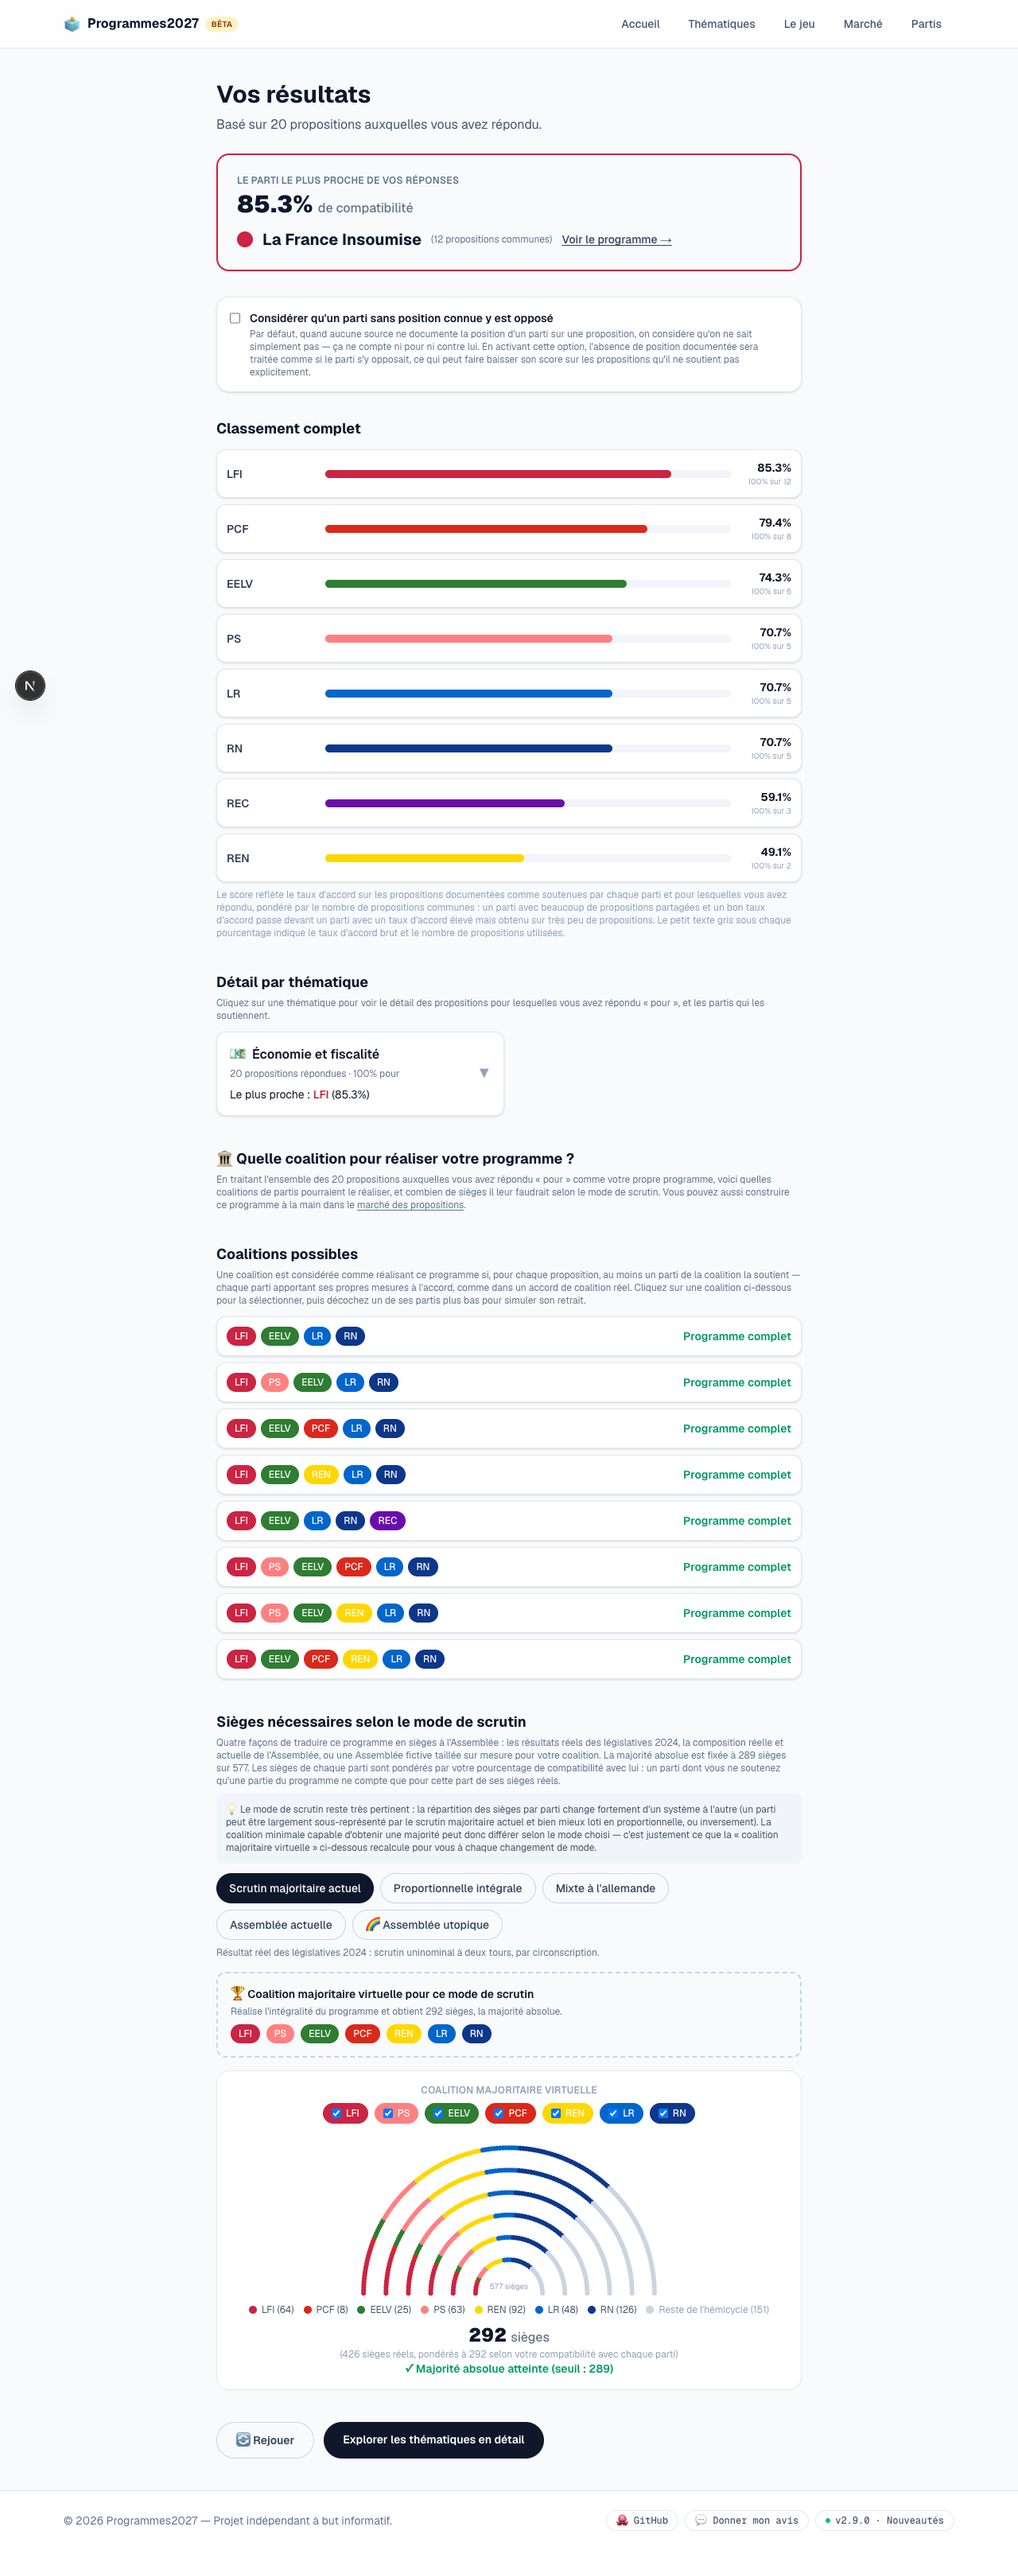
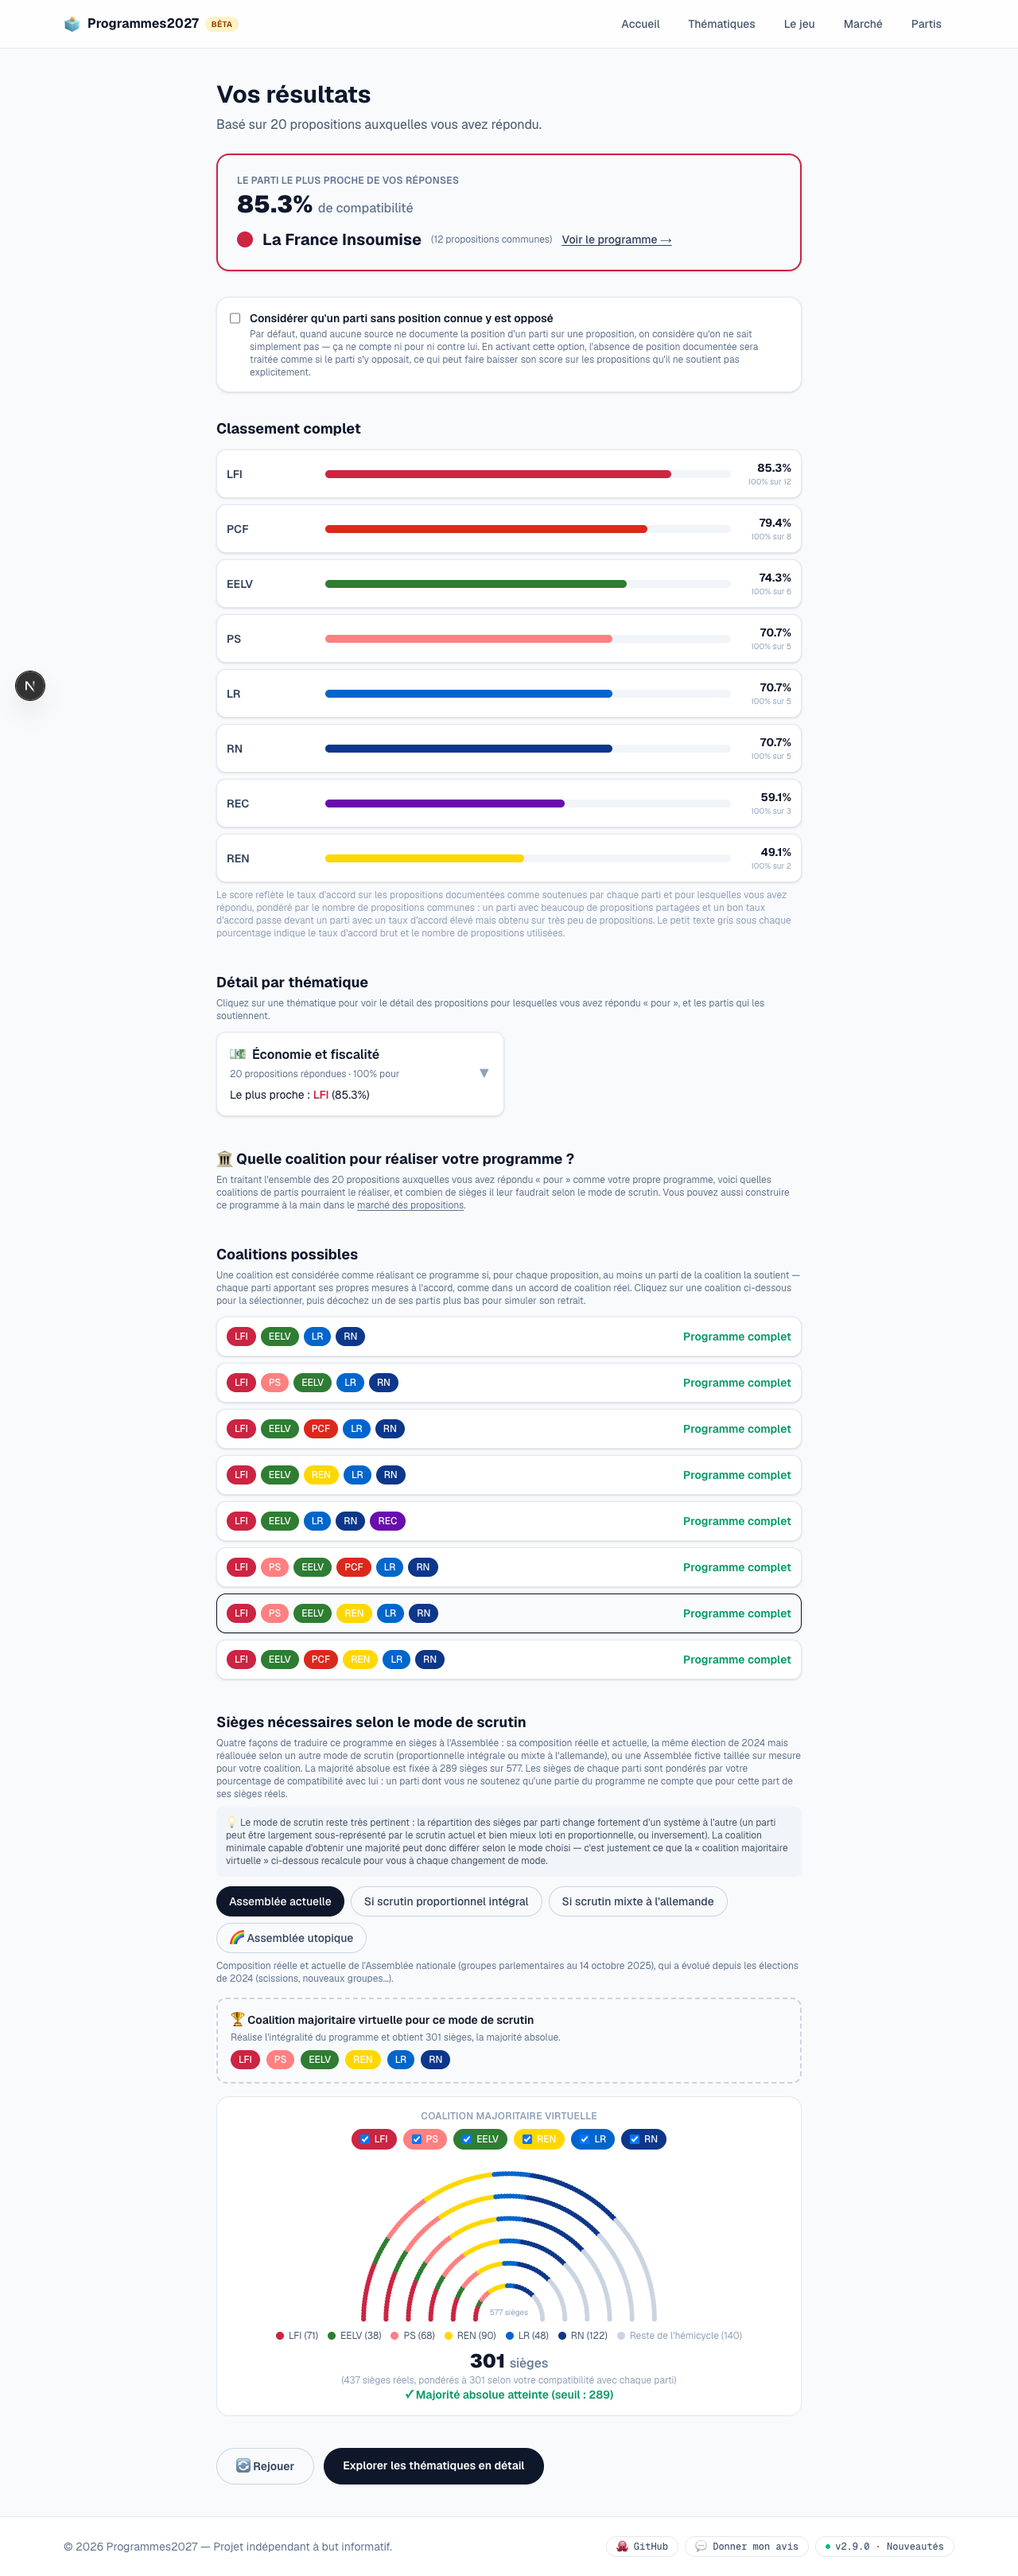
Simplify electoral system options: drop duplicate majoritaire mode, clarify labels

diff --git a/src/lib/electoralSystems.ts b/src/lib/electoralSystems.ts
@@ -2,7 +2,6 @@ import { PartyId, Proposition } from "@/lib/types";
 import {
   ELECTION_2024_BY_PARTY,
   MAJORITY_THRESHOLD,
-  OTHER_SEATS_2024,
   OTHER_VOTE_SHARE_2024,
   TOTAL_SEATS,
 } from "@/lib/data/electionResults2024";
@@ -13,10 +12,9 @@ import {
 } from "@/lib/data/currentAssembly";
 
 export type ElectoralSystemId =
-  | "majoritaire"
+  | "actuelle"
   | "proportionnelle"
   | "mixte"
-  | "actuelle"
   | "utopique";
 
 export interface ElectoralSystem {
@@ -27,27 +25,21 @@ export interface ElectoralSystem {
 
 export const ELECTORAL_SYSTEMS: ElectoralSystem[] = [
   {
-    id: "majoritaire",
-    name: "Scrutin majoritaire actuel",
-    shortDescription:
-      "Résultat réel des législatives 2024 : scrutin uninominal à deux tours, par circonscription.",
-  },
-  {
-    id: "proportionnelle",
-    name: "Proportionnelle intégrale",
-    shortDescription:
-      "Répartition nationale stricte des sièges au prorata des voix du 1er tour 2024 (méthode D'Hondt), seuil de 5% sans exception.",
-  },
-  {
-    id: "mixte",
-    name: "Mixte à l'allemande",
-    shortDescription:
-      "Moitié des sièges par circonscription, moitié en compensation proportionnelle nationale (méthode D'Hondt), seuil de 5% des voix OU 3 mandats directs (règle réellement utilisée en Allemagne).",
-  },
-  {
     id: "actuelle",
     name: "Assemblée actuelle",
     shortDescription: `Composition réelle et actuelle de l'Assemblée nationale (groupes parlementaires au ${CURRENT_ASSEMBLY_DATE}), qui a évolué depuis les élections de 2024 (scissions, nouveaux groupes...).`,
+  },
+  {
+    id: "proportionnelle",
+    name: "Si scrutin proportionnel intégral",
+    shortDescription:
+      "Mêmes résultats électoraux (1er tour des législatives 2024), mais sièges réattribués en proportionnelle intégrale nationale (méthode D'Hondt), seuil de 5% sans exception, au lieu du scrutin uninominal réellement utilisé.",
+  },
+  {
+    id: "mixte",
+    name: "Si scrutin mixte à l'allemande",
+    shortDescription:
+      "Mêmes résultats électoraux (2024), mais moitié des sièges par circonscription et moitié en compensation proportionnelle nationale (méthode D'Hondt), seuil de 5% des voix OU 3 mandats directs (règle réellement utilisée en Allemagne).",
   },
   {
     id: "utopique",
@@ -96,15 +88,6 @@ function allocateDHondt(
 
 function partyIds(): PartyId[] {
   return Object.keys(ELECTION_2024_BY_PARTY) as PartyId[];
-}
-
-/** The real, historical 2024 seat distribution — used as-is. */
-export function computeMajoritaireSeats(): SeatSimulationResult {
-  const seatsByParty: SeatsByParty = {};
-  for (const id of partyIds()) {
-    seatsByParty[id] = ELECTION_2024_BY_PARTY[id].seats2024;
-  }
-  return { seatsByParty, otherSeats: OTHER_SEATS_2024 };
 }
 
 /** Strict 5% national threshold, no exceptions. */
@@ -162,10 +145,13 @@ export function computeMixteSeats(): SeatSimulationResult {
 }
 
 /**
- * The current, present-day balance of power in the Assemblée nationale
- * — distinct from `computeMajoritaireSeats`, which reflects the 2024
- * election results as they stood on election night. See
- * `src/lib/data/currentAssembly.ts` for sourcing and the snapshot date.
+ * The current, present-day balance of power in the Assemblée nationale.
+ * See `src/lib/data/currentAssembly.ts` for sourcing and the snapshot
+ * date — this is the "real" baseline for the coalition simulator; the
+ * "proportionnelle"/"mixte" systems below simulate what the SAME 2024
+ * election result would have produced under a different voting system,
+ * not what today's Assembly would look like reallocated (we have no
+ * newer national vote-share data to do that with).
  */
 export function computeActuelleSeats(): SeatSimulationResult {
   return {
@@ -176,8 +162,6 @@ export function computeActuelleSeats(): SeatSimulationResult {
 
 export function computeSeats(system: ElectoralSystemId): SeatSimulationResult {
   switch (system) {
-    case "majoritaire":
-      return computeMajoritaireSeats();
     case "proportionnelle":
       return computeProportionnelleSeats();
     case "mixte":

diff --git a/src/components/CoalitionExplorer.tsx b/src/components/CoalitionExplorer.tsx
@@ -50,7 +50,7 @@ export function CoalitionExplorer({
   const [manualCoalitionIndex, setManualCoalitionIndex] = useState<number | null>(
     null
   );
-  const [system, setSystem] = useState<ElectoralSystemId>("majoritaire");
+  const [system, setSystem] = useState<ElectoralSystemId>("actuelle");
   // Parties temporarily excluded from the currently selected coalition,
   // to preview which propositions could no longer be realized without
   // them. Reset whenever the selected coalition changes (picking a
@@ -159,11 +159,12 @@ export function CoalitionExplorer({
           </h2>
           <p className="mt-1 text-xs text-slate-500">
             Quatre façons de traduire ce programme en sièges à
-            l&apos;Assemblée : les résultats réels des législatives 2024,
-            la composition réelle et actuelle de l&apos;Assemblée, ou une
-            Assemblée fictive taillée sur mesure pour votre coalition. La
-            majorité absolue est fixée à {MAJORITY_THRESHOLD} sièges sur{" "}
-            {TOTAL_SEATS}.
+            l&apos;Assemblée : sa composition réelle et actuelle, la même
+            élection de 2024 mais réallouée selon un autre mode de
+            scrutin (proportionnelle intégrale ou mixte à l&apos;allemande),
+            ou une Assemblée fictive taillée sur mesure pour votre
+            coalition. La majorité absolue est fixée à{" "}
+            {MAJORITY_THRESHOLD} sièges sur {TOTAL_SEATS}.
             {partyCompatibility &&
               " Les sièges de chaque parti sont pondérés par votre pourcentage de compatibilité avec lui : un parti dont vous ne soutenez qu'une partie du programme ne compte que pour cette part de ses sièges réels."}
           </p>
@@ -171,10 +172,10 @@ export function CoalitionExplorer({
             💡 Le mode de scrutin reste très pertinent : la répartition des
             sièges par parti change fortement d&apos;un système à
             l&apos;autre (un parti peut être largement sous-représenté par
-            le scrutin majoritaire actuel et bien mieux loti en
-            proportionnelle, ou inversement). La coalition minimale capable
-            d&apos;obtenir une majorité peut donc différer selon le mode
-            choisi — c&apos;est justement ce que la « coalition majoritaire
+            le scrutin actuel et bien mieux loti en proportionnelle, ou
+            inversement). La coalition minimale capable d&apos;obtenir une
+            majorité peut donc différer selon le mode choisi —
+            c&apos;est justement ce que la « coalition majoritaire
             virtuelle » ci-dessous recalcule pour vous à chaque changement
             de mode.
           </p>

diff --git a/README.md b/README.md
@@ -89,15 +89,16 @@ partis pour construire votre propre programme, puis découvrez :
   apportant les mesures qu'il soutient, comme dans un accord de
   coalition réel) ;
 - combien de **sièges à l'Assemblée nationale** cette coalition
-  obtiendrait selon le mode de scrutin — scrutin majoritaire actuel
-  (résultats réels des législatives 2024), proportionnelle intégrale,
-  scrutin mixte à l'allemande, **composition actuelle et à jour de
-  l'Assemblée** (qui a évolué depuis 2024 : scissions, nouveaux
-  groupes...), ou **Assemblée utopique** (feuille blanche qui ignore la
-  réalité électorale et reconstruit une Assemblée fictive où la
-  coalition sélectionnée obtient tout juste la majorité absolue, le
-  reste des sièges étant affiché en gris) — visualisés dans un
-  hémicycle, comparés au seuil de majorité absolue (289 sièges sur 577) ;
+  obtiendrait selon le mode de scrutin — **composition actuelle et à
+  jour de l'Assemblée** (qui a évolué depuis 2024 : scissions, nouveaux
+  groupes...), la même élection de 2024 réallouée en **proportionnelle
+  intégrale** ou en **scrutin mixte à l'allemande**, ou **Assemblée
+  utopique** (feuille blanche qui ignore la réalité électorale et
+  reconstruit une Assemblée fictive où la coalition sélectionnée obtient
+  tout juste la majorité absolue, chaque parti au prorata de votre
+  compatibilité avec lui, le reste des sièges étant affiché en gris) —
+  visualisés dans un hémicycle, comparés au seuil de majorité absolue
+  (289 sièges sur 577) ;
 - la **coalition majoritaire virtuelle** : la plus petite coalition
   capable à la fois de réaliser le programme et d'atteindre la majorité
   absolue *sous le mode de scrutin choisi* — recalculée et affichée par
